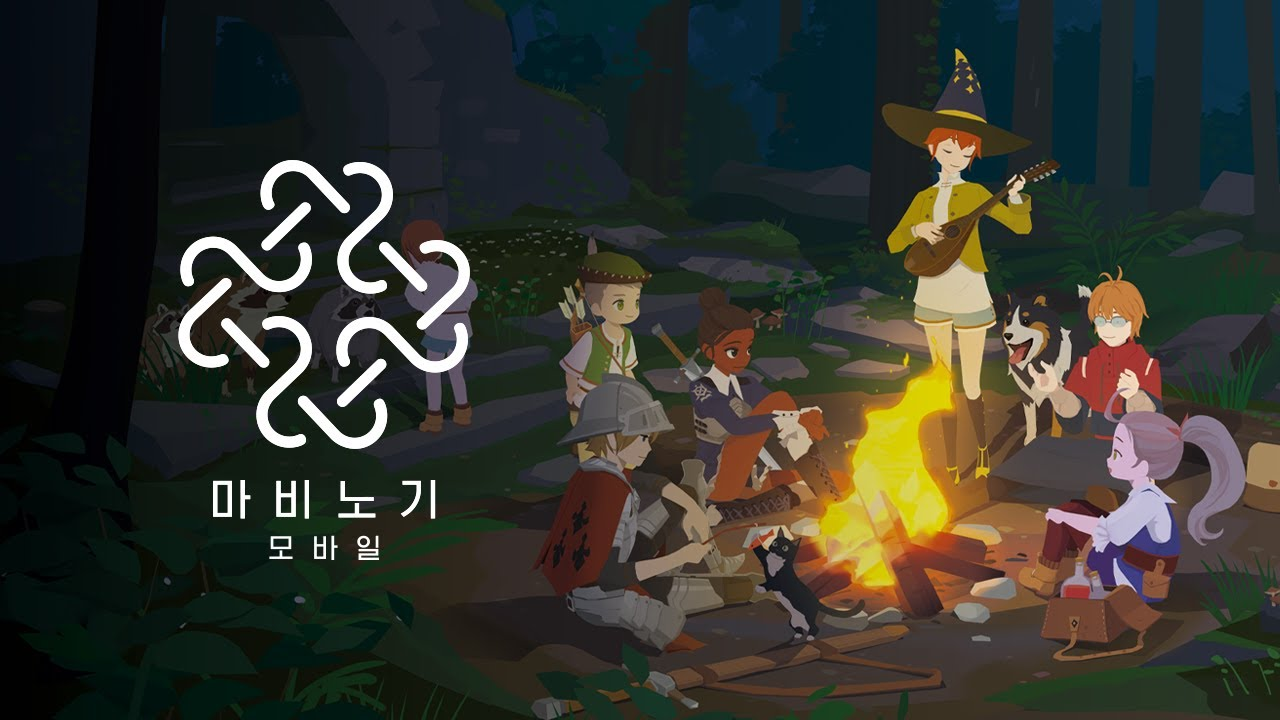
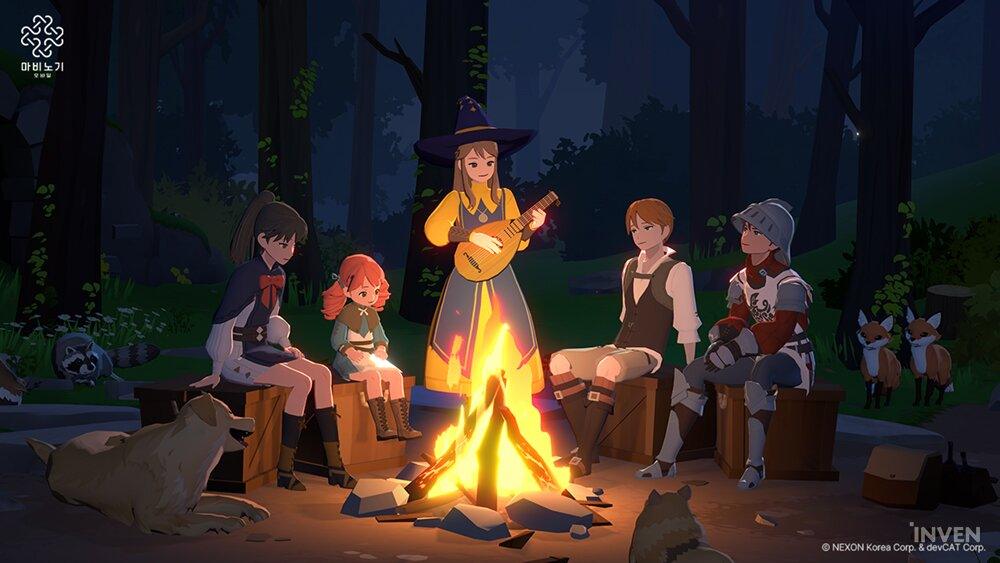
feat: 파일명 변경, 모바일고려 애니메이션 css 변경, 유저 정보 변경

diff --git a/app/globals.css b/app/globals.css
@@ -58,7 +58,8 @@
   --secondary: oklch(0.967 0.001 286.375);
   --secondary-foreground: oklch(0.21 0.006 285.885);
   --muted: oklch(0.967 0.001 286.375);
-  --muted-foreground: oklch(0.552 0.016 285.938);
+  --muted-foreground: oklch(0.152 0.016 285.938);
+  /*--muted-foreground: oklch(0.1 0.015 286.067); !* Light 모드에서 아주 어두운 색 *!*/
   --accent: oklch(0.967 0.001 286.375);
   --accent-foreground: oklch(0.21 0.006 285.885);
   --destructive: oklch(0.577 0.245 27.325);
@@ -80,7 +81,7 @@
   --sidebar-ring: oklch(0.795 0.184 86.047);
 }
 
-.dark {
+.dark, :root[data-theme="dark"] {
   --background: oklch(0.141 0.005 285.823);
   --foreground: oklch(0.985 0 0);
   --card: oklch(0.21 0.006 285.885);
@@ -92,7 +93,10 @@
   --secondary: oklch(0.274 0.006 286.033);
   --secondary-foreground: oklch(0.985 0 0);
   --muted: oklch(0.274 0.006 286.033);
-  --muted-foreground: oklch(0.705 0.015 286.067);
+  /*--muted-foreground: oklch(0.705 0.015 286.067); !* Dark 모드에서 매우 밝은 색 *!*/
+  --muted-foreground: oklch(0.905 0.015 286.067); /* Dark 모드에서 매우 밝은 색 */
+
+
   --accent: oklch(0.274 0.006 286.033);
   --accent-foreground: oklch(0.985 0 0);
   --destructive: oklch(0.704 0.191 22.216);
@@ -114,15 +118,6 @@
   --sidebar-ring: oklch(0.554 0.135 66.442);
 }
 
-:root[data-theme="dark"] {
-  --background: #000;
-  --foreground: #fff;
-}
-
-:root[data-theme="light"] {
-  --background: #fff;
-  --foreground: #000;
-}
 
 @layer base {
   * {

diff --git a/types/nextAuth/next-auth.d.ts b/types/nextAuth/next-auth.d.ts
@@ -1,15 +1,16 @@
-import NextAuth from "next-auth";
-import { GenderType, UserAuthType } from "../common/commonType";
+import {GuildRoleType, JobType} from "@/shared/types/common";
 
 declare module "next-auth" {
   interface User {
-    id: string; // 유저 ID (유저 닉네임)
-    password: string; // 유저 pswd
-    authType: UserAuthType; // 유저 권한
-    job: string; // 게임 내 직업
-    gender: GenderType; // 성별
-    useYn: "Y" | "N"; // 사용 여부
-    userBirth: string; // 생년월일
+    docId: string; // 문서 ID
+    id: string; // 유저 아이디
+    password: string; // 유저 비밀번호
+    role: GuildRoleType; // 유저 길드 내 등급
+    job: JobType; // 유저 직업
+    mngDt: string; // 관리날짜 (등록일, 수정일)
+    isHaveEventBadge: boolean; // 이벤트 당첨 및 뱃지 보유여부
+    approvalJoin: boolean; // 회원가입 승인여부
+    isWithdrawn: boolean; // 탈퇴여부
   }
 
   interface Session {

diff --git a/shared/types/common.ts b/shared/types/common.ts
@@ -1,4 +1,48 @@
+/**
+ * @name YnFlag
+ * @description "Y" 혹은 "N"을 값으로 가지는 타입 정의
+ */
+export type YnFlag = "Y" | "N";
+
+/**
+ * @name EnumType<T>
+ * @description type, name을 가지는 enumType 정의
+ */
 export interface EnumType<T> {
   type: T;
   name: string;
 }
+
+/**
+ * @name GuildRoleType
+ * @description 길드 내 등급
+ */
+export type GuildRoleType =
+    | "GUILD_MASTER"
+    | "GUILD_SUB_MASTER"
+    | "GUILD_MEMBER";
+
+/**
+ * @name JobType
+ * @description 게임 내 직업
+ */
+export type JobType =
+    | "전사"
+    | "대검전사"
+    | "검술사"
+    | "궁수"
+    | "석궁사수"
+    | "장궁병"
+    | "마법사"
+    | "화염술사"
+    | "빙결술사"
+    | "힐러"
+    | "사제"
+    | "수도사"
+    | "음유시인"
+    | "댄서"
+    | "악사"
+    | "견습 전사"
+    | "견습 궁수"
+    | "견습 마법사"
+    | "견습 음유시인";

diff --git a/shared/types/user.ts b/shared/types/user.ts
@@ -1,29 +1,7 @@
-export type GuildRoleType =
-  | "GUILD_MASTER"
-  | "GUILD_SUB_MASTER"
-  | "GUILD_MEMBER";
-
-export type UserJobType =
-  | "전사"
-  | "대검전사"
-  | "검술사"
-  | "궁수"
-  | "석궁사수"
-  | "장궁병"
-  | "마법사"
-  | "화염술사"
-  | "빙결술사"
-  | "힐러"
-  | "사제"
-  | "수도사"
-  | "음유시인"
-  | "댄서"
-  | "악사"
-  | "견습 전사"
-  | "견습 궁수"
-  | "견습 마법사"
-  | "견습 음유시인";
-
+/**
+ * @name LoginRequest
+ * @description 로그인 요청 인터페이스
+ */
 export interface LoginRequest {
   id: string;
   password: string;

diff --git a/app/(home)/_components/guild-stats.tsx b/app/(home)/_components/guild-stats.tsx
@@ -5,9 +5,9 @@ import { useRef } from "react";
 import { Users, Award, Calendar, Clock } from "lucide-react";
 
 const stats = [
-  { name: "활동 길드원", value: "120+", icon: Users },
-  { name: "길드 레벨", value: "45", icon: Award },
-  { name: "설립일", value: "2023.05", icon: Calendar },
+  { name: "활동 길드원", value: "30+", icon: Users },
+  { name: "길드 레벨", value: "3", icon: Award },
+  { name: "설립일", value: "2025.03", icon: Calendar },
   { name: "주간 활동 시간", value: "80시간+", icon: Clock },
 ];
 

diff --git a/app/(home)/_components/hero.tsx b/app/(home)/_components/hero.tsx
@@ -124,7 +124,7 @@ export default function Hero() {
             <div className="absolute -inset-1 bg-gradient-to-r from-amber-500 to-purple-600 rounded-2xl blur opacity-30"></div>
             <div className="relative aspect-[16/9] overflow-hidden rounded-xl shadow-2xl">
               <Image
-                src="/images/bg-mabinogi-mobile-sky-user.jpg"
+                src="/images/bg-mabinogi-mobile-bonfire.jpg"
                 alt="마비노기 모바일 길드 스크린샷"
                 fill
                 className="object-cover"
